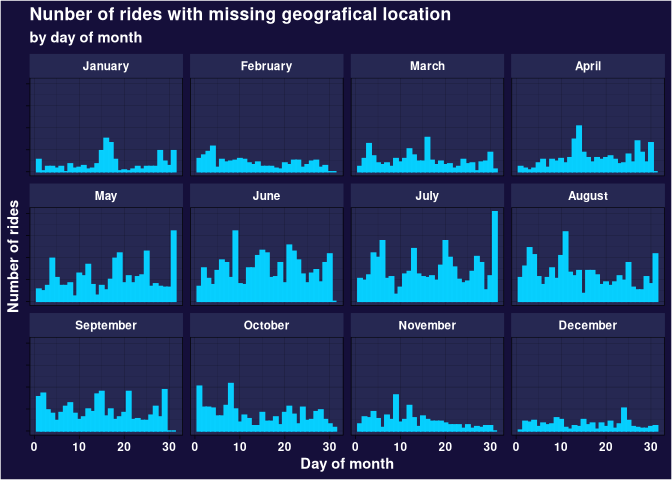
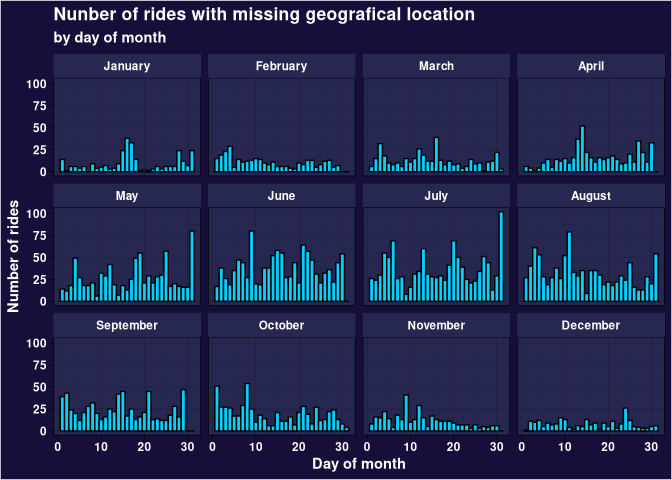
Revising file format and add caption style to global theme. Correct binwith of months plot and added a new plot about unreliance of coordinates

diff --git a/README.md b/README.md
@@ -191,29 +191,35 @@ dataset publishing as the main source of missing information. Let’s
 check a graph that could sustent this hipothesys
 
 ``` r
-global_theme <-  function() {
+global_theme <- function() {
   theme_linedraw() +
-  theme(axis.text.y = element_blank(),
-    axis.text.x = element_text(colour = 'white', face = 'bold'),
-    axis.title.y = element_text(colour ='white', face = 'bold'), 
-    axis.title.x = element_text(colour ='white', face = 'bold'),
-    plot.title = element_text(colour = 'white', face = 'bold'),
-    plot.subtitle = element_text(colour = 'white', face = 'bold'),
-    strip.background = element_rect(fill = "#262852", color='#262852'),
-    strip.placement = "inside",
-    strip.text = element_text(colour = "white", face = 'bold'), 
-    panel.background = element_rect(fill = "#262852"), 
-    plot.background = element_rect(fill = "#150F3A"))
+    theme(
+      axis.text.y = element_text(colour = "white", face = "bold"),
+      axis.text.x = element_text(colour = "white", face = "bold"),
+      axis.title.y = element_text(colour = "white", face = "bold"),
+      axis.title.x = element_text(colour = "white", face = "bold"),
+      plot.title = element_text(colour = "white", face = "bold"),
+      plot.subtitle = element_text(colour = "white", face = "bold"),
+      strip.background = element_rect(fill = "#262852", color = "#262852"),
+      strip.placement = "inside",
+      strip.text = element_text(colour = "white", face = "bold"),
+      panel.background = element_rect(fill = "#262852"),
+      plot.background = element_rect(fill = "#150F3A"),
+      plot.caption = element_text(colour = "white", face = "bold")
+    )
 }
 
 df |>
   filter(is.na(end_lng)) |>
   ggplot() +
   aes(x = mday(started_at)) +
-  geom_histogram(bins = 31, color = "#07D0FF", fill = "#06CEFD") +
+  geom_histogram(binwidth = 1, color = "#000000", fill = "#06CEFD") +
   global_theme() +
   facet_wrap(vars(month(started_at, label = TRUE, abbr = FALSE))) +
-  labs(x = "Day of month", y = "Number of rides", title = "Nunber of rides with missing geografical location", subtitle = "by day of month")
+  labs(x = "Day of month", 
+    y = "Number of rides", 
+    title = "Nunber of rides with missing geografical location", 
+    subtitle = "by day of month")
 ```
 
 ![](README_files/figure-commonmark/unnamed-chunk-4-1.png)
@@ -281,11 +287,33 @@ the formulary before it is uploaded.
 This might be a problem, since we detected that there are some
 coordinates that are very far away from the city where Divvy is working,
 and we may want to use the location of the stations to look for some
-trends. Let’s find the worst cases of this problematic.
+trends. Let’s find an example of this problematic.
 
 ``` r
-#TODO
+distm_v <- Vectorize(function(x1, y1, x2, y2) {
+  distm(c(x1, y1), c(x2, y2), fun = distHaversine)
+})
+
+df |>
+  select(start_station_id, start_station_name, start_lng, start_lat) |>
+  filter(start_station_id == 13029) |>
+  mutate(mean_lng = mean(start_lng), mean_lat = mean(start_lat), most_distant = distm_v(mean_lat, mean_lng, start_lat, start_lng)) |>
+  filter(most_distant > 15) |>
+  ggplot() +
+  aes(x = most_distant) +
+  scale_x_log10() +
+  global_theme() +
+  geom_histogram(bins = 100, color = "#000000", fill = "#06CEFD") +
+  labs(
+    x = "Distance (meters) to mean",
+    y = "Number of rides",
+    title = "Distribution of distance to mean of start coordinates",
+    subtitle = 'Station "Station Flied Museum"',
+    caption = "(only rides with distance > 15m)"
+  )
 ```
+
+![](README_files/figure-commonmark/unnamed-chunk-7-1.png)
 
 Looking at the page from divvy, we could obtain the exact location of
 the stations, let’s incorporate that
@@ -301,7 +329,7 @@ stations <- fromJSON(stations_json) |>
   select(station_id, short_name, name, lon, lat)
 
 stations |>
-  distinct(station_id)|>
+  distinct(station_id) |>
   dim()
 ```
 
@@ -319,7 +347,7 @@ stations |>
 stations |>
   group_by(lat, lon) |>
   filter(n() > 1) |>
-  ungroup() 
+  ungroup()
 ```
 
     # A tibble: 6 x 5
@@ -328,8 +356,8 @@ stations |>
     1 a3a3a282-a135-11e9-9cda-0a87ae2ba916 TA1306000014 "Wilton Ave & D~ -87.7  41.9
     2 d53ae727-5265-4b8e-a6ca-2a36dc0345c4 chargingstx2 "Wilton Ave & D~ -87.7  41.9
     3 1827484051430132402                  <NA>         "Public Rack - ~ -87.8  42.0
-    4 1677249871073777806                  <NA>         "Public Rack - ~ -87.7  41.8
-    5 1715823821144840768                  <NA>         "Public Rack - ~ -87.7  41.8
+    4 1715823821144840768                  <NA>         "Public Rack - ~ -87.7  41.8
+    5 1677249871073777806                  <NA>         "Public Rack - ~ -87.7  41.8
     6 1827474404723843690                  <NA>         "Public Rack - ~ -87.8  42.0
 
 ``` r
@@ -342,12 +370,12 @@ stations |>
     # A tibble: 6 x 5
       station_id          short_name name                     lon   lat
       <chr>               <chr>      <chr>                  <dbl> <dbl>
-    1 1967727360320698512 24211      Western Ave & Lake St  -87.7  41.9
-    2 1978857650118994914 24409      Indiana Ave & 133rd St -87.6  41.7
+    1 1978857650118994914 24409      Indiana Ave & 133rd St -87.6  41.7
+    2 1967727360320698512 24211      Western Ave & Lake St  -87.7  41.9
     3 1984042930424753006 24394      Steelworkers Park      -87.5  41.7
-    4 1448642188027369090 <NA>       Steelworkers Park      -87.5  41.7
+    4 1448642188027369086 <NA>       Indiana Ave & 133rd St -87.6  41.7
     5 1594046379513303720 <NA>       Western Ave & Lake St  -87.7  41.9
-    6 1448642188027369086 <NA>       Indiana Ave & 133rd St -87.6  41.7
+    6 1448642188027369090 <NA>       Steelworkers Park      -87.5  41.7
 
 This data is mostly clean, just some typos in the system that are an
 easy fix. Since I can count those errors with one hand, I manually check
@@ -364,7 +392,7 @@ We will proceed as follows
 
 ``` r
 stations |>
-  filter(station_id=='a3a3a282-a135-11e9-9cda-0a87ae2ba916' | station_id=='')
+  filter(station_id == "a3a3a282-a135-11e9-9cda-0a87ae2ba916" | station_id == "")
 ```
 
     # A tibble: 1 x 5
